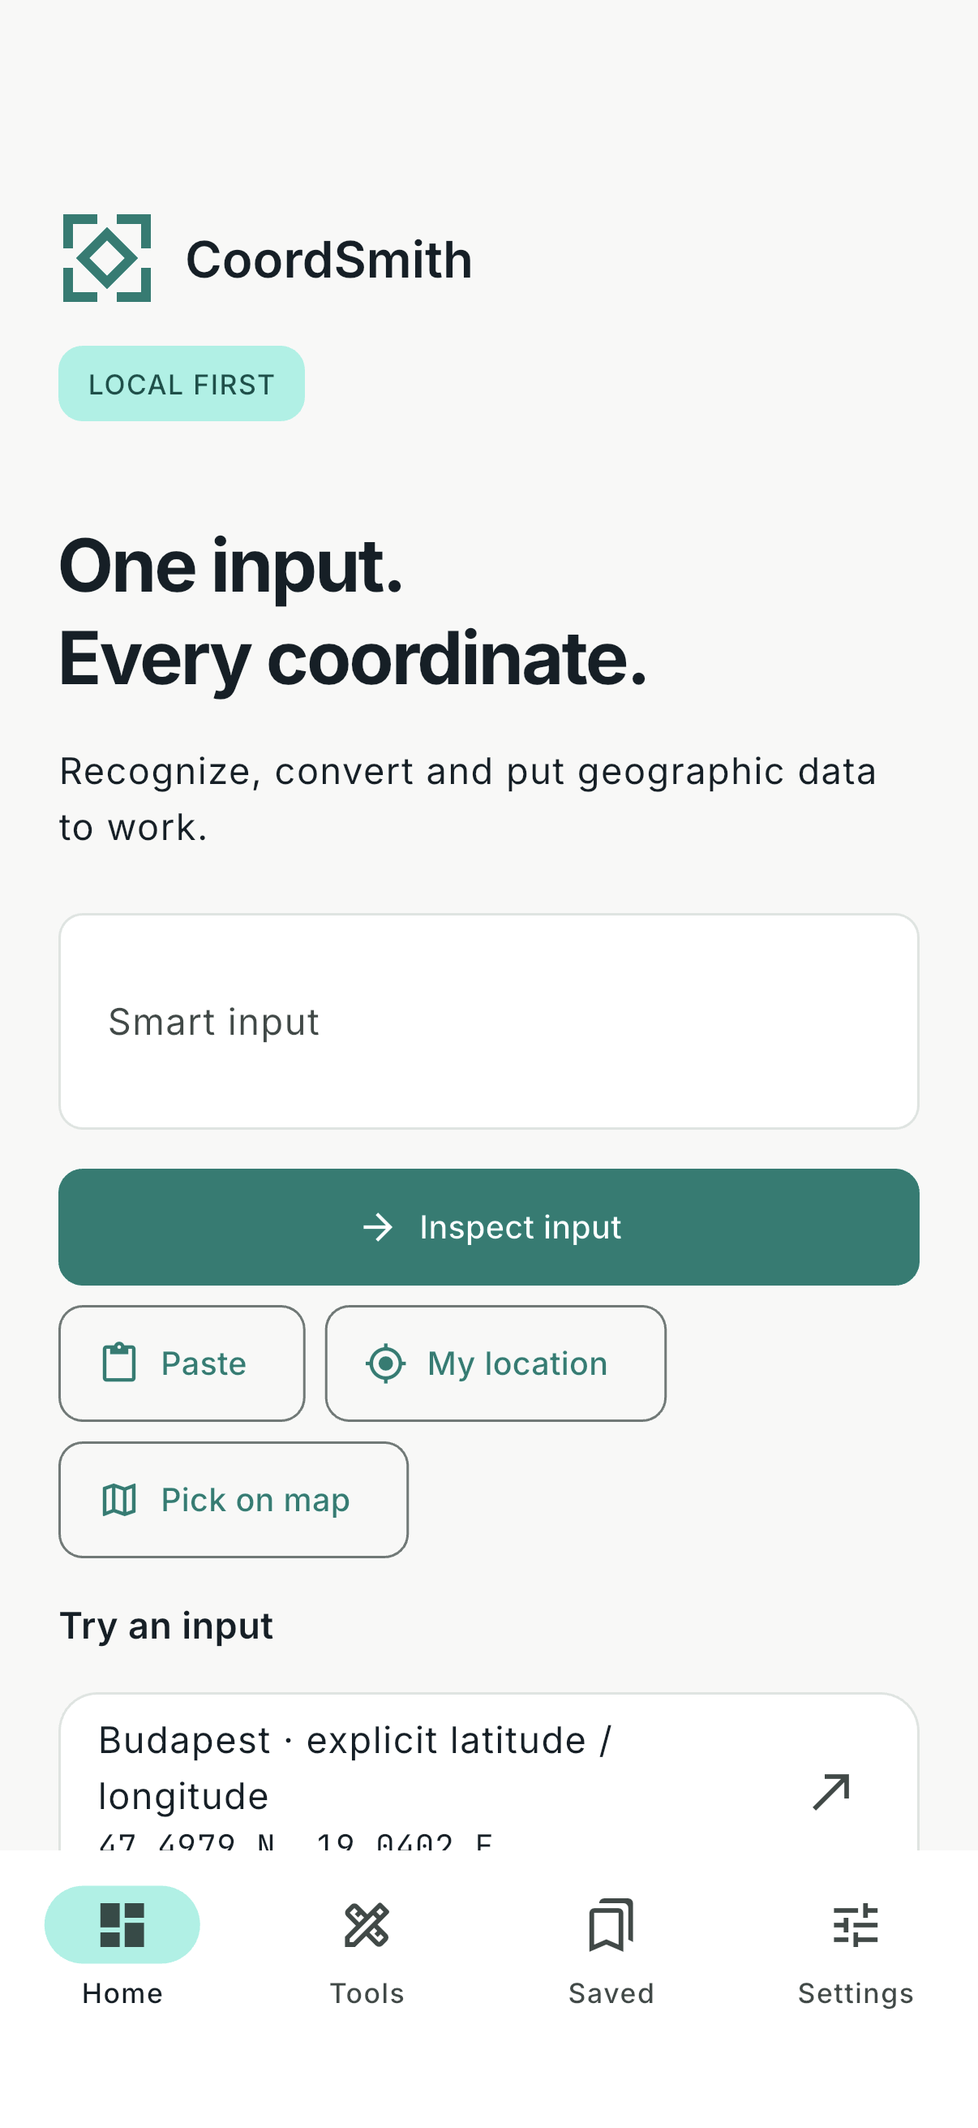
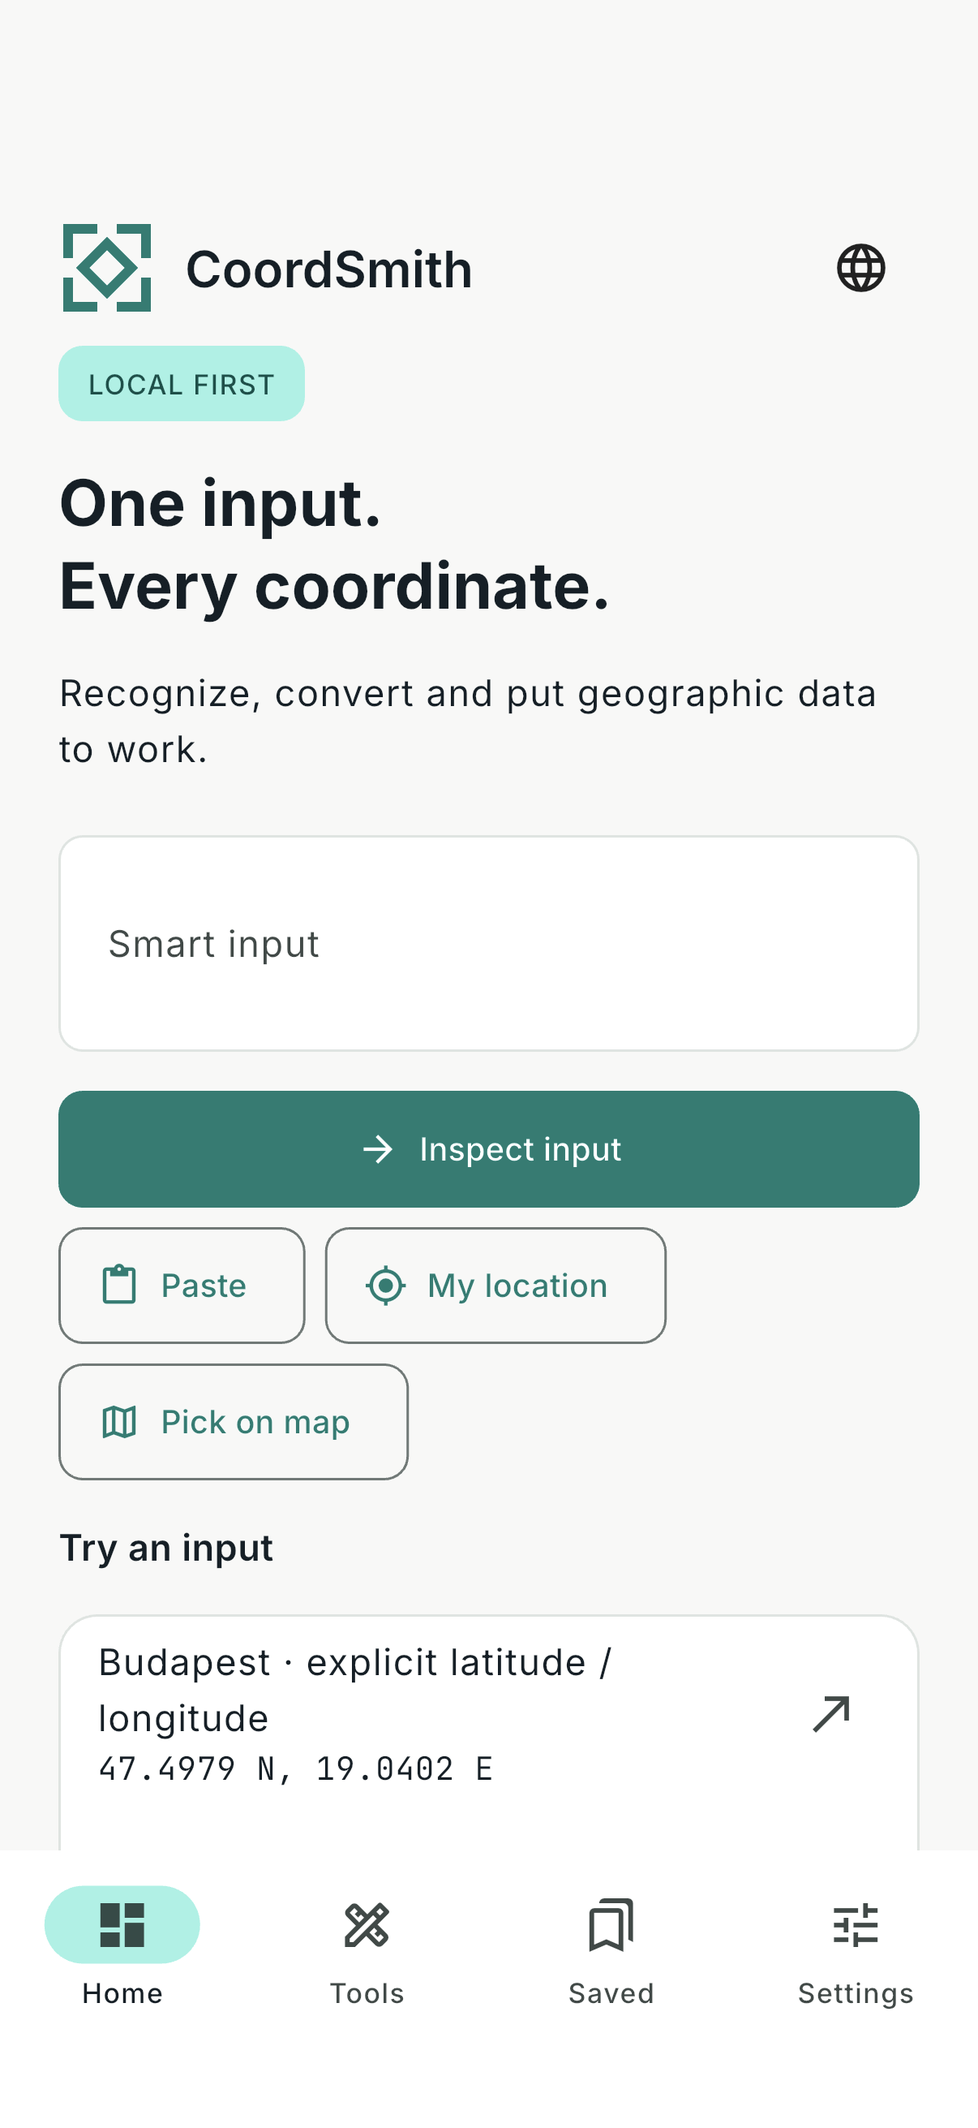
site: publish validated CoordSmith website

diff --git a/privacy/index.html b/privacy/index.html
@@ -1,3 +1,3 @@
 <!doctype html>
 <html lang="en"><head><meta charset="utf-8"><meta name="viewport" content="width=device-width, initial-scale=1"><meta name="color-scheme" content="light dark"><meta name="theme-color" content="#142027"><title>Privacy Policy — CoordSmith</title><meta name="description" content="How CoordSmith processes coordinates locally, stores saved data, requests map tiles, and handles optional location access."><meta property="og:type" content="website"><meta property="og:title" content="Privacy Policy — CoordSmith"><meta property="og:description" content="How CoordSmith processes coordinates locally, stores saved data, requests map tiles, and handles optional location access."><meta property="og:url" content="https://tmatrai.github.io/coordsmith-site/privacy/"><meta property="og:image" content="https://tmatrai.github.io/coordsmith-site/assets/social.png"><meta property="og:image:alt" content="CoordSmith — the pocket toolkit for coordinates"><meta name="twitter:card" content="summary_large_image"><link rel="canonical" href="https://tmatrai.github.io/coordsmith-site/privacy/"><link rel="icon" type="image/svg+xml" href="/coordsmith-site/assets/icon.svg"><link rel="stylesheet" href="/coordsmith-site/tokens.css"><link rel="stylesheet" href="/coordsmith-site/styles.css"><script defer src="/coordsmith-site/site.js"></script></head>
-<body><a class="skip-link" href="#main">Skip to content</a><header class="site-header container"><a class="brand" href="/coordsmith-site/" aria-label="CoordSmith home"><svg viewBox="0 0 1024 1024" aria-hidden="true"><rect width="1024" height="1024" rx="224" fill="currentColor"/><g fill="none" stroke="var(--logo-ink)" stroke-width="56" stroke-linejoin="miter"><path d="M240 380V240H380 M644 240H784V380 M784 644V784H644 M380 784H240V644 M512 356L668 512L512 668L356 512Z"/></g></svg><span>CoordSmith</span></a><nav aria-label="Main navigation"><a href="/coordsmith-site/#features">Toolkit</a><a href="/coordsmith-site/#privacy">Privacy</a><a href="/coordsmith-site/support/">Support</a><button class="theme-toggle" type="button" aria-label="Use dark appearance" aria-pressed="false" hidden><span aria-hidden="true">◐</span><span class="theme-label">Dark</span></button></nav></header><main id="main" class="legal container" tabindex="-1"><p class="eyebrow">COORDSMITH / PRIVACY</p><h1>Privacy Policy</h1><p class="legal-date">Effective 3 October 2026</p><p class="lead">CoordSmith is a local-first geographic utility. This policy covers the app and this companion website.</p><h2>What happens on your device</h2><p>Coordinate parsing, conversion, calculations, and geometry inspection run locally. CoordSmith has no account system, advertising, analytics SDK, tracking service, or custom telemetry backend.</p><p>Favorites, input history, and settings are stored in the app’s local storage. History is capped at 50 deduplicated entries. You can clear it; disabling history also clears recorded entries. Large inputs over 100,000 characters are not added to history. Deleting the app generally removes its local data; Android cloud backup and device-transfer backup are disabled by the app configuration; iOS system backups may preserve or restore local app data according to your operating system settings. Local storage is not an encrypted vault.</p><h2>Location is optional</h2><p>CoordSmith requests location permission only when you choose to use your current location. The app uses that location to produce a point and show the accuracy supplied by the device. It does not run background location tracking. You can deny or revoke permission in system settings and continue using other app features.</p><h2>Maps and other network activity</h2><p>Online map tiles are initially disabled. If you enable them, viewing maps requests tiles from OpenStreetMap servers. Requests disclose your IP address, standard request information, and tile identifiers representing the area you are viewing. Map providers can infer that area even though CoordSmith does not send your pasted text or saved library to a custom backend. Maps may be unavailable offline.</p><p>OpenStreetMap requests are covered by the <a href="https://wiki.osmfoundation.org/wiki/Privacy_Policy">OpenStreetMap Foundation Privacy Policy</a>. Opening a point in a map app or browser passes coordinates to that service. Sharing or copying a result puts that result in the destination you select or on the system clipboard, where platform rules govern access.</p><h2>This website</h2><p>The website has no analytics, ad pixels, embedded third-party maps, or externally hosted fonts. It stores only an appearance preference in your browser if you change the theme. Your hosting provider may process IP addresses and ordinary request logs to deliver and protect the site. GitHub Pages documents IP logging for security in its <a href="https://docs.github.com/en/pages/getting-started-with-github-pages/what-is-github-pages">hosting documentation</a> and <a href="https://docs.github.com/en/site-policy/privacy-policies/github-general-privacy-statement">privacy statement</a>.</p><h2>Support and control</h2><p>If you choose to report an issue, the information you submit is processed by the support service. Avoid including sensitive coordinates, private locations, or personal information. No app diagnostics are automatically uploaded.</p><p>For privacy questions or a report, use the <a href="/coordsmith-site/support/">configured support channel</a>. Changes to this policy will be published here with an updated effective date.</p></main><footer class="site-footer container"><div><a class="brand" href="/coordsmith-site/"><svg viewBox="0 0 1024 1024" aria-hidden="true"><rect width="1024" height="1024" rx="224" fill="currentColor"/><g fill="none" stroke="var(--logo-ink)" stroke-width="56" stroke-linejoin="miter"><path d="M240 380V240H380 M644 240H784V380 M784 644V784H644 M380 784H240V644 M512 356L668 512L512 668L356 512Z"/></g></svg><span>CoordSmith</span></a><p>A little less coordinate friction.</p></div><nav aria-label="Footer navigation"><a href="/coordsmith-site/privacy/">Privacy Policy</a><a href="/coordsmith-site/terms/">Terms of Use</a><a href="/coordsmith-site/support/">Support</a></nav><p class="footer-note">Made for iOS & Android. Release candidate.</p></footer></body></html>
+<body><a class="skip-link" href="#main">Skip to content</a><header class="site-header container"><a class="brand" href="/coordsmith-site/" aria-label="CoordSmith home"><svg viewBox="0 0 1024 1024" aria-hidden="true"><rect width="1024" height="1024" rx="224" fill="currentColor"/><g fill="none" stroke="var(--logo-ink)" stroke-width="56" stroke-linejoin="miter"><path d="M240 380V240H380 M644 240H784V380 M784 644V784H644 M380 784H240V644 M512 356L668 512L512 668L356 512Z"/></g></svg><span>CoordSmith</span></a><nav aria-label="Main navigation"><a href="/coordsmith-site/#features">Toolkit</a><a href="/coordsmith-site/#privacy">Privacy</a><a href="/coordsmith-site/support/">Support</a><button class="theme-toggle" type="button" aria-label="Use dark appearance" aria-pressed="false" hidden><span aria-hidden="true">◐</span><span class="theme-label">Dark</span></button></nav></header><main id="main" class="legal container" tabindex="-1"><p class="eyebrow">COORDSMITH / PRIVACY</p><h1>Privacy Policy</h1><p class="legal-date">Effective 3 October 2026</p><p class="lead">CoordSmith is a local-first geographic utility. This policy covers the app and this companion website.</p><h2>What happens on your device</h2><p>Coordinate parsing, conversion, calculations, and geometry inspection run locally. CoordSmith has no account system, advertising, analytics SDK, tracking service, or custom telemetry backend.</p><p>Favorites, input history, and settings are stored in the app’s local storage. History is capped at 50 deduplicated entries. You can clear it; disabling history also clears recorded entries. Large inputs over 100,000 characters are not added to history. Deleting the app generally removes its local data; Android cloud backup and device-transfer backup are disabled by the app configuration; iOS system backups may preserve or restore local app data according to your operating system settings. Local storage is not an encrypted vault.</p><h2>Location is optional</h2><p>CoordSmith requests location permission only when you choose to use your current location. The app uses that location to produce a point and show the accuracy supplied by the device. It does not run background location tracking. You can deny or revoke permission in system settings and continue using other app features.</p><h2>Maps and other network activity</h2><p>Online OpenStreetMap tiles are enabled by default. You can disable them in app Settings to work with the offline coordinate canvas; an existing explicit opt-out is preserved. Viewing online maps requests tiles from OpenStreetMap servers. Requests disclose your IP address, standard request information, and tile identifiers representing the area you are viewing. Map providers can infer that area even though CoordSmith does not send your pasted text or saved library to a custom backend. Maps may be unavailable offline.</p><p>OpenStreetMap requests are covered by the <a href="https://wiki.osmfoundation.org/wiki/Privacy_Policy">OpenStreetMap Foundation Privacy Policy</a>. Opening a point in a map app or browser passes coordinates to that service. Sharing or copying a result puts that result in the destination you select or on the system clipboard, where platform rules govern access.</p><h2>This website</h2><p>The website has no analytics, ad pixels, embedded third-party maps, or externally hosted fonts. It stores only an appearance preference in your browser if you change the theme. Your hosting provider may process IP addresses and ordinary request logs to deliver and protect the site. GitHub Pages documents IP logging for security in its <a href="https://docs.github.com/en/pages/getting-started-with-github-pages/what-is-github-pages">hosting documentation</a> and <a href="https://docs.github.com/en/site-policy/privacy-policies/github-general-privacy-statement">privacy statement</a>.</p><h2>Support and control</h2><p>If you choose to report an issue, the information you submit is processed by the support service. Avoid including sensitive coordinates, private locations, or personal information. No app diagnostics are automatically uploaded.</p><p>For privacy questions or a report, use the <a href="/coordsmith-site/support/">configured support channel</a>. Changes to this policy will be published here with an updated effective date.</p></main><footer class="site-footer container"><div><a class="brand" href="/coordsmith-site/"><svg viewBox="0 0 1024 1024" aria-hidden="true"><rect width="1024" height="1024" rx="224" fill="currentColor"/><g fill="none" stroke="var(--logo-ink)" stroke-width="56" stroke-linejoin="miter"><path d="M240 380V240H380 M644 240H784V380 M784 644V784H644 M380 784H240V644 M512 356L668 512L512 668L356 512Z"/></g></svg><span>CoordSmith</span></a><p>A little less coordinate friction.</p></div><nav aria-label="Footer navigation"><a href="/coordsmith-site/privacy/">Privacy Policy</a><a href="/coordsmith-site/terms/">Terms of Use</a><a href="/coordsmith-site/support/">Support</a></nav><p class="footer-note">Made for iOS & Android. Release candidate.</p></footer></body></html>

diff --git a/index.html b/index.html
@@ -2,6 +2,6 @@
 <html lang="en"><head><meta charset="utf-8"><meta name="viewport" content="width=device-width, initial-scale=1"><meta name="color-scheme" content="light dark"><meta name="theme-color" content="#142027"><title>CoordSmith — The pocket toolkit for coordinates</title><meta name="description" content="A local-first iOS and Android toolkit for coordinates, geometry, maps, and GIS calculations. Convert, inspect, copy, and move on."><meta property="og:type" content="website"><meta property="og:title" content="CoordSmith — The pocket toolkit for coordinates"><meta property="og:description" content="A local-first iOS and Android toolkit for coordinates, geometry, maps, and GIS calculations. Convert, inspect, copy, and move on."><meta property="og:url" content="https://tmatrai.github.io/coordsmith-site/"><meta property="og:image" content="https://tmatrai.github.io/coordsmith-site/assets/social.png"><meta property="og:image:alt" content="CoordSmith — the pocket toolkit for coordinates"><meta name="twitter:card" content="summary_large_image"><link rel="canonical" href="https://tmatrai.github.io/coordsmith-site/"><link rel="icon" type="image/svg+xml" href="/coordsmith-site/assets/icon.svg"><link rel="stylesheet" href="/coordsmith-site/tokens.css"><link rel="stylesheet" href="/coordsmith-site/styles.css"><script defer src="/coordsmith-site/site.js"></script></head>
 <body><a class="skip-link" href="#main">Skip to content</a><header class="site-header container"><a class="brand" href="/coordsmith-site/" aria-label="CoordSmith home"><svg viewBox="0 0 1024 1024" aria-hidden="true"><rect width="1024" height="1024" rx="224" fill="currentColor"/><g fill="none" stroke="var(--logo-ink)" stroke-width="56" stroke-linejoin="miter"><path d="M240 380V240H380 M644 240H784V380 M784 644V784H644 M380 784H240V644 M512 356L668 512L512 668L356 512Z"/></g></svg><span>CoordSmith</span></a><nav aria-label="Main navigation"><a href="/coordsmith-site/#features">Toolkit</a><a href="/coordsmith-site/#privacy">Privacy</a><a href="/coordsmith-site/support/">Support</a><button class="theme-toggle" type="button" aria-label="Use dark appearance" aria-pressed="false" hidden><span aria-hidden="true">◐</span><span class="theme-label">Dark</span></button></nav></header><main id="main" class="" tabindex="-1"><section class="hero container"><div class="hero-copy"><p class="eyebrow"><span class="status-dot" aria-hidden="true"></span> Release candidate for iOS &amp; Android</p><h1>The pocket toolkit<br>for <em>coordinates.</em></h1><p class="lead">From a pasted point to the format you need. Convert, calculate, inspect, and hand off to your map app — with precision you can see.</p><div class="actions"><a class="button primary" href="#features">Explore the toolkit <span aria-hidden="true">↓</span></a><a class="button secondary" href="#availability">Get release details <span aria-hidden="true">↗</span></a></div><ul class="trust-list" aria-label="Product principles"><li>No account</li><li>Local calculations</li><li>No ads or analytics</li></ul><div class="coordinate-strip"><span>WGS84 / EPSG:4326</span><code>47.4979° N · 19.0402° E</code></div></div><div class="hero-visual"><figure class="app-shot"><div class="phone-frame"><a href="/coordsmith-site/assets/screenshots/home-light.png" aria-label="View full-size screenshot: Smart Input in light appearance"><img src="/coordsmith-site/assets/screenshots/home-light.png" alt="Smart Input in light appearance" width="1206" height="2622" loading="lazy"></a></div><figcaption>Real app capture · Smart Input in light appearance</figcaption></figure><div class="floating-note"><span class="status-dot" aria-hidden="true"></span> One point. Every useful format.</div></div></section>
 <section class="feature-section container" id="features"><div class="section-heading"><p class="eyebrow">LESS REPETITION. MORE CLARITY.</p><h2>Useful from the first paste.</h2><p>Geographic data arrives in all shapes. Keep the everyday tools together, and keep coordinate order explicit.</p></div><div class="feature-grid"><article class="feature-card"><span class="feature-number">01 / RECOGNIZE</span><h3>Start with what you have.</h3><p>Decimal degrees, DMS, DDM, UTM/MGRS, JSON points, GeoJSON, WKT, geohashes, or XYZ tiles. Ambiguous latitude and longitude? Choose the interpretation yourself.</p><code class="code-chip">47° 29′ 52.44″ N</code></article><article class="feature-card"><span class="feature-number">02 / CONVERT</span><h3>The right representation.</h3><p>Read a point as WGS84, Web Mercator, UTM, or geohash. Copy an ecosystem-aware snippet for JavaScript, Dart, SQL, or your mapping library.</p><code class="code-chip">POINT (19.0402 47.4979)</code></article><article class="feature-card"><span class="feature-number">03 / CALCULATE</span><h3>A focused GIS workbench.</h3><p>Distance and bearing, destinations, bounding boxes, tiles, geometry inspection, and map measurement — with assumptions and units in view.</p><code class="code-chip">distance · bearing · bounds</code></article><article class="feature-card"><span class="feature-number">04 / KEEP MOVING</span><h3>Ready for your next step.</h3><p>Save a named point locally, revisit recent inputs, share a result, or open it in a map app. Location permission is optional.</p><code class="code-chip">copy → save → open</code></article></div></section>
-<section class="workspace-section container"><div class="workspace-visual"><figure class="app-shot"><div class="phone-frame"><a href="/coordsmith-site/assets/screenshots/point-dark.png" aria-label="View full-size screenshot: Point Workspace in dark appearance"><img src="/coordsmith-site/assets/screenshots/point-dark.png" alt="Point Workspace in dark appearance" width="1206" height="2622" loading="lazy"></a></div><figcaption>Real app capture · Point Workspace in dark appearance</figcaption></figure></div><div class="section-heading"><p class="eyebrow">BUILT FOR THE DETAILS</p><h2>Your point,<br>in working order.</h2><p>Longitude first for GeoJSON and WKT. Latitude first where the target expects it. CoordSmith makes the difference visible before you copy.</p><ul class="detail-list"><li><span>01</span><div><h3>Readable precision</h3><p>Monospaced coordinates and named representations help you catch mistakes.</p></div></li><li><span>02</span><div><h3>A comfortable workspace</h3><p>Intentional light and dark appearances, built around a calm engineering tool.</p></div></li><li><span>03</span><div><h3>Maps when you want them</h3><p>Preview and pick points on a map. Core conversion and calculation work without a network.</p></div></li></ul></div></section>
+<section class="workspace-section container"><div class="workspace-visual"><figure class="app-shot"><div class="phone-frame"><a href="/coordsmith-site/assets/screenshots/point-dark.png" aria-label="View full-size screenshot: Point Workspace in dark appearance"><img src="/coordsmith-site/assets/screenshots/point-dark.png" alt="Point Workspace in dark appearance" width="1206" height="2622" loading="lazy"></a></div><figcaption>Real app capture · Point Workspace in dark appearance</figcaption></figure></div><div class="section-heading"><p class="eyebrow">BUILT FOR THE DETAILS</p><h2>Your point,<br>in working order.</h2><p>Longitude first for GeoJSON and WKT. Latitude first where the target expects it. CoordSmith makes the difference visible before you copy.</p><ul class="detail-list"><li><span>01</span><div><h3>Readable precision</h3><p>Monospaced coordinates and named representations help you catch mistakes.</p></div></li><li><span>02</span><div><h3>A comfortable workspace</h3><p>Light and dark appearances, larger maps, and easily switchable Hungarian and English interfaces.</p></div></li><li><span>03</span><div><h3>Maps when you want them</h3><p>Preview and pick points on an OpenStreetMap basemap, enabled by default. Expand maps to full screen and fit all geometry. Core tools work offline; tiles can be disabled in Settings.</p></div></li></ul></div></section>
 <section class="privacy-section container" id="privacy"><div class="privacy-symbol" aria-hidden="true"><svg viewBox="0 0 1024 1024" aria-hidden="true"><rect width="1024" height="1024" rx="224" fill="currentColor"/><g fill="none" stroke="var(--logo-ink)" stroke-width="56" stroke-linejoin="miter"><path d="M240 380V240H380 M644 240H784V380 M784 644V784H644 M380 784H240V644 M512 356L668 512L512 668L356 512Z"/></g></svg></div><div><p class="eyebrow">LOCAL FIRST, BY DESIGN</p><h2>Your coordinates stay in your workflow.</h2><p>Core processing happens on your device. No account, ads, analytics SDKs, or custom telemetry. Favorites and history are stored locally.</p><p class="small">Map tiles require network requests. Opening or sharing a point passes data to the app you choose. Your operating system may include local app data in its backups.</p><a class="text-link" href="/coordsmith-site/privacy/">Read the full privacy policy <span aria-hidden="true">↗</span></a></div></section>
 <section class="availability container" id="availability"><p class="eyebrow">RELEASE STATUS</p><h2>Made for iOS & Android.</h2><p>CoordSmith is a release candidate for iOS 15 or later and Android 7.0 or later. It is not currently listed on the App Store or Google Play. Android builds can be installed directly by testers; iOS testing uses a simulator or a provisioned development device.</p><p>Test builds are supplied by the project owner. The application source repository is private; the website support tracker is public.</p><a class="button primary" href="/coordsmith-site/support/">Testing & support <span aria-hidden="true">↗</span></a></section></main><footer class="site-footer container"><div><a class="brand" href="/coordsmith-site/"><svg viewBox="0 0 1024 1024" aria-hidden="true"><rect width="1024" height="1024" rx="224" fill="currentColor"/><g fill="none" stroke="var(--logo-ink)" stroke-width="56" stroke-linejoin="miter"><path d="M240 380V240H380 M644 240H784V380 M784 644V784H644 M380 784H240V644 M512 356L668 512L512 668L356 512Z"/></g></svg><span>CoordSmith</span></a><p>A little less coordinate friction.</p></div><nav aria-label="Footer navigation"><a href="/coordsmith-site/privacy/">Privacy Policy</a><a href="/coordsmith-site/terms/">Terms of Use</a><a href="/coordsmith-site/support/">Support</a></nav><p class="footer-note">Made for iOS & Android. Release candidate.</p></footer></body></html>
